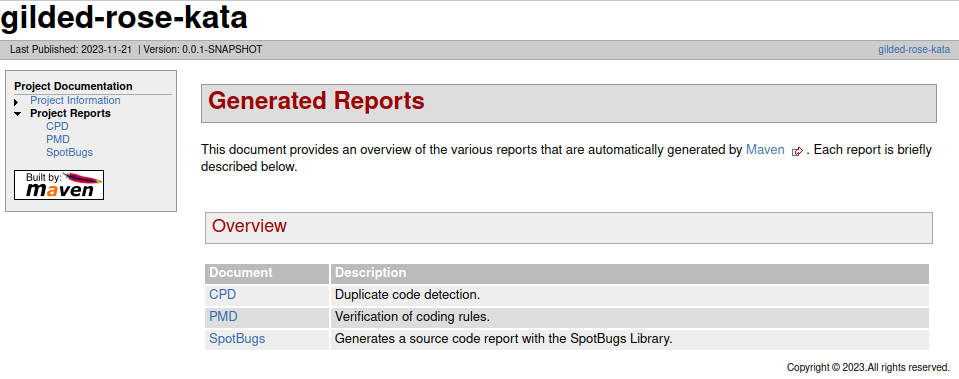
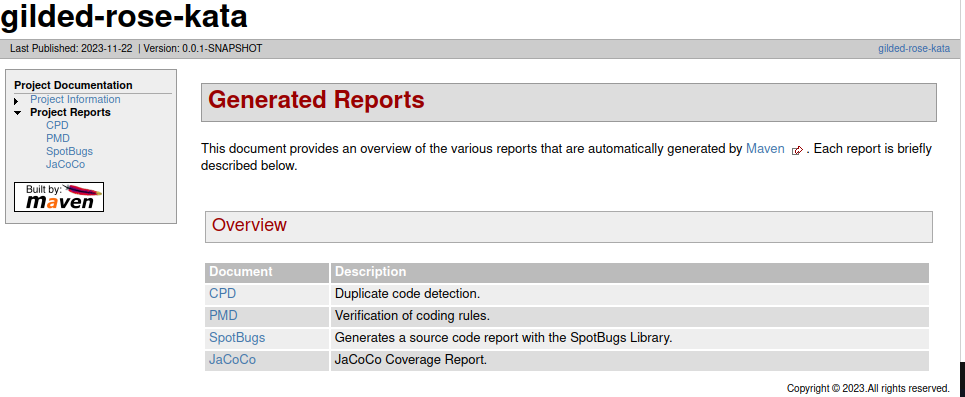
Update configuration file

Changed region(s): [[0.0, 0.0, 1.0, 0.5805], [0.2117, 0.5224, 1.0, 1.0], [0.9677, 0.0, 0.9979, 0.029]]

diff --git a/TP3/README.md b/TP3/README.md
@@ -3,3 +3,130 @@
 Ce TP sera centré sur le refactoring de code. L'objectif est de répondre aux exigences du projet GildedRose-Refactoring-Kata (voir le README présent dans le dossier du projet). Veillez à ouvrir ce dossier dans IntelliJ et à utiliser Maven lors de la configuration (il vous sera demandé de choisir entre Maven et Gradle).
 
 Il y a un certain nombre de code smells dans ce projet. Ces codes smells sont décrits sur [ce site](https://sourcemaking.com/refactoring). Identifiez-les et résolvez ces problèmes tout en répondant aux exigences décrites dans le README du projet. Bonne chance!
+
+
+# Static analysis of source code
+
+During this practical course, we're going to make static analysis of your refactoring code with a number of tools: SonarQube, PMD, SpotBugs and JaCoCo. The following sections explain how to download and install these tools. Enjoy!
+
+## Docker
+
+> Docker is a platform designed to help developers build, share, and run modern applications. We handle the tedious setup, so you can focus on the code.
+> -- <cite>[Docker website](https://www.docker.com/)</cite>
+
+Docker will be useful for installing SonarQube on your computer.
+
+### Installation
+
+You can download and install Docker Desktop here: [https://www.docker.com/products/docker-desktop/](https://www.docker.com/products/docker-desktop/)
+
+Please, follow [this "getting started" tutorial](https://www.docker.com/blog/getting-started-with-docker-desktop/) to verify your installation.
+
+> **Note for Ubuntu users**: you can follow these informations if you prefer not using Docker Desktop: [https://doc.ubuntu-fr.org/docker](https://doc.ubuntu-fr.org/docker).
+
+### Some commands
+
+Some docker commands to remember:
+- Stop the container:
+```console
+docker stop <name of the container>
+```
+- Start the container:
+```console
+docker start <name of the container>
+```
+
+- Restart the container:
+```console
+docker restart <name of the container>
+```
+
+## SonarQube
+
+> SonarQube is a self-managed, automatic code review tool that systematically helps you deliver clean code. As a core element of our Sonar solution, SonarQube integrates into your existing workflow and detects issues in your code to help you perform continuous code inspections of your projects.
+> -- <cite>[SonarQube website](https://docs.sonarqube.org/latest/)</cite>
+
+### Local server installation and analysis of a project
+
+Requirements: docker and Maven installed.
+
+> **Note**: you may need administrator privileges to make the below commands working!
+
+1. Terminal command to get the SonarQube docker (from [https://hub.docker.com/_/sonarqube](https://hub.docker.com/_/sonarqube)):
+```console
+docker pull sonarqube
+```
+2. Terminal command to create and start the docker:
+```console
+docker run -d --name sonarqube -p 9000:9000 -p 9092:9092 sonarqube
+```
+> **Note**: the above command should be used once! After the creation of the container, you will have to use the commands described in the [Docker](#some-commands) section.
+
+3. After the start of the docker, go to `http://localhost:9000`, login with `admin` and `admin` credentials and update your password.
+4. The platform asks you "How do you want to create your project?". Select "Create a local project"
+5. Give your project a name and select "Next"
+6. Click on "Use the global setting" and create your project
+7. Click on "Locally" when SonarQube asks how to analyze your repository
+8. Generate a project token and click on "Continue"
+9. When SonarQube asks for your type of build, select `Maven`
+10. SonarQube will give you a terminal command to run sonar on a project. Keep it safe somewhere as you will need it. The command looks like something like this:
+
+```console
+mvn clean verify sonar:sonar \
+  -Dsonar.projectKey=test-sonar \
+  -Dsonar.host.url=http://localhost:9000 \
+  -Dsonar.login=sqp_6028bd54b089.....899d405de2159436feec
+```
+
+10. This command will not be enough to run sonar on our project. We have to add this line at the end of the command: `-Pcoverage` so that we can have the code coverage values in sonar. This gives us the entire command to analyze your project:
+```console
+mvn clean verify sonar:sonar \
+  -Dsonar.projectKey=test-sonar \
+  -Dsonar.host.url=http://localhost:9000 \
+  -Dsonar.login=sqp_6028bd54b089.....899d405de2159436feec
+  -Pcoverage
+```
+
+11. To start analyze a Java Maven project with SonarQube, go to the root of the project (not the directory of the course!!) and execute the terminal command above. This will run the Maven project and link it to SonarQube analysis.
+> **NOTE:** each time you modify the code, you will need to rerun this command to make the changes effective.
+12. Go to `http://localhost:9000` and enjoy!
+
+
+### SonarLint plugin on Intellij (optional)
+
+> SonarLint is a free IDE extension to find and fix coding issues in real-time, flagging issues as you code, just like a spell-checker. More than a linter, it also delivers rich contextual guidance to help developers understand why there is an issue, assess the risk and educate them on how to fix it. This helps improve their skills, enhance their productivity, and take ownership of their code, taking linting to a different level.
+> -- <cite>[JetBrains website](https://plugins.jetbrains.com/plugin/7973-sonarlint)</cite>
+
+SonarLint can be installed on Intellij to see code smells, bugs and so on while you are coding. See the plugin settings on Intellij to install it.
+
+It also can be linked with SonarQube (it is mainly used in a CI/CD context). To get more informations about this, go to [https://docs.sonarqube.org/9.6/user-guide/sonarlint-connected-mode/](https://docs.sonarqube.org/9.6/user-guide/sonarlint-connected-mode/).
+
+
+## PMD Source Code Analyzer Project, Spotbugs and JaCoCo tools
+
+### Definition of each tool
+
+#### PMD
+> PMD is a static source code analyzer. It finds common programming flaws like unused variables, empty catch blocks, unnecessary object creation, and so forth.
+> -- <cite>[PMD website](https://docs.pmd-code.org/latest/index.html)</cite>
+
+#### SpotBugs
+> SpotBugs is a program which uses static analysis to look for bugs in Java code.
+> -- <cite>[Spotbugs website](https://spotbugs.github.io/)</cite>
+
+#### JaCoCo
+> JaCoCo is a free code coverage library for Java, which has been created by the EclEmma team based on the lessons learned from using and integration existing libraries for many years.
+> -- <cite>[JaCoCo website](https://www.jacoco.org/jacoco/)</cite>
+
+### PMD rules
+
+Here is some information about the rules followed by PMD to find bugs: [https://docs.pmd-code.org/latest/pmd_rules_java.html](https://docs.pmd-code.org/latest/pmd_rules_java.html)
+
+### Usage
+
+The plugins are already placed in the dependencies of the pom file of GildedRose-Refactoring-Kata. If you want to use it for another project, see [this link for PMD](https://docs.pmd-code.org/latest/pmd_userdocs_tools_maven.html), [this link for spotbugs](https://spotbugs.readthedocs.io/en/latest/maven.html) and [this link for JaCoCo](https://www.eclemma.org/jacoco/trunk/doc/maven.html).
+1. Run ```mvn clean test site:site``` in the root of your project (aka inside *GildedRose-Refactoring-Kata* directory)
+2. Go to */target/site* and open *index.html* in IntelliJ as a local file URL with Firefox, Chrome or with IntelliJ built-in Preview (see screen below)
+   ![open-html.png](../images/open-html.png)
+3. Go to *Project Reports* and see the PMD, SpotBugs and JaCoCo reports of your project (see below)
+   ![reports-html.png](../images/reports-html.png)
